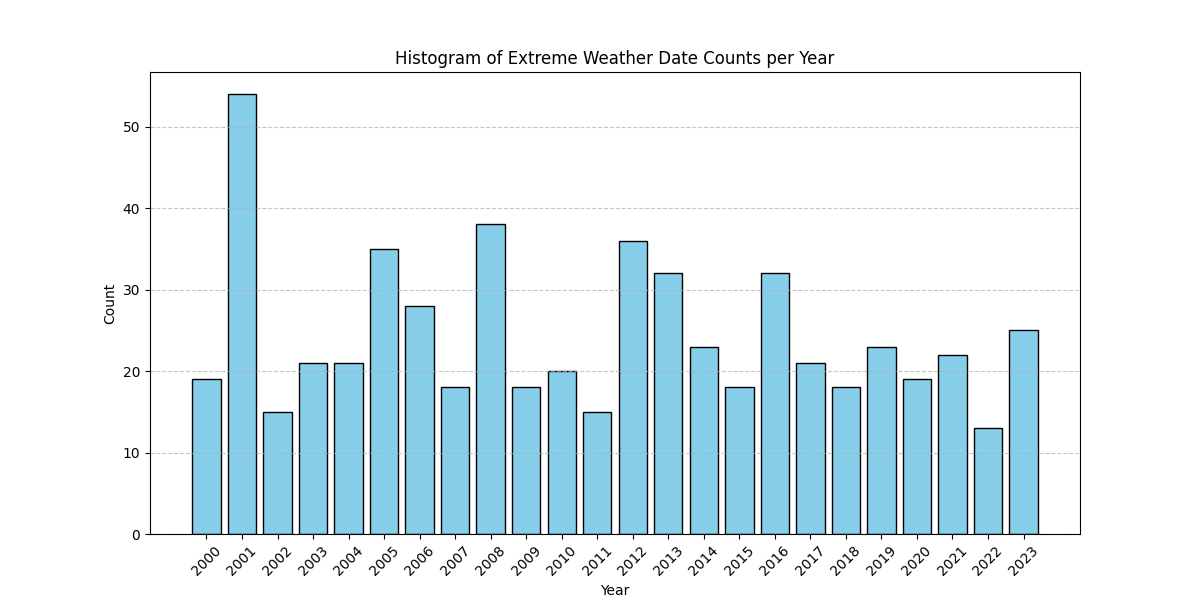
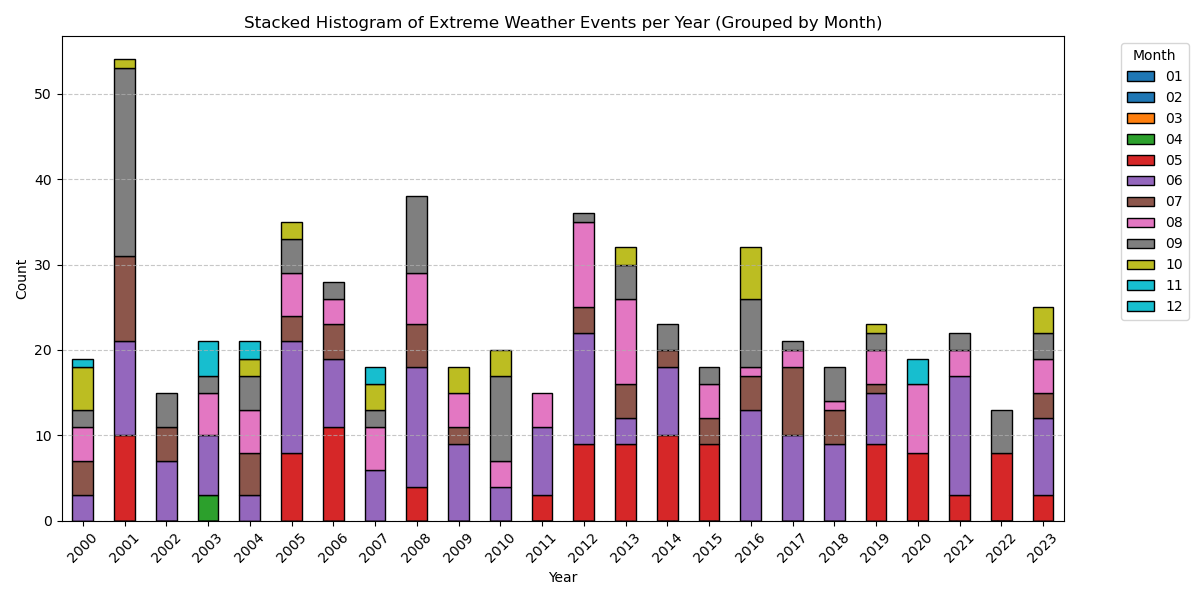
Plot stacked histogram of extreme dates, grouped by month.

diff --git a/helpers/filter_zarr.py b/helpers/filter_zarr.py
@@ -26,13 +26,16 @@ to retain only the specified dates.
    - Defines file paths and calls `filter_zarr_by_dates()` to generate a filtered dataset.
 """
 import re
+from typing import List
 from datetime import datetime, timedelta
 import xarray as xr
 import numpy as np
+import pandas as pd
+import matplotlib.pyplot as plt
 
 from merge_zarr import recompute_fields
 
-def extract_overlapping_dates(file_path):
+def extract_overlapping_dates(file_path: str) -> List[str]:
     """
     Reads a file containing date ranges and extracts unique overlapping dates.
 
@@ -58,7 +61,7 @@ def extract_overlapping_dates(file_path):
 
     return unique_dates
 
-def read_dates_from_file(file_path):
+def read_dates_from_file(file_path: str) -> List[str]:
     """
     Reads a file containing a list of individual dates.
 
@@ -70,6 +73,44 @@ def read_dates_from_file(file_path):
     """
     with open(file_path, "r", encoding="utf-8") as file:
         return {line.strip() for line in file if re.match(r"\d{8}", line.strip())}
+
+def plot_dates(dates: List[str], output_path: str) -> None:
+    """
+    Plots a stacked histogram showing the count of extreme weather events per year,
+    grouped by months.
+
+    Parameters:
+        dates (List[str]): List of date strings in 'YYYYMMDD' format.
+        output_path (str): Path to save the output plot.
+    """
+    # Extract years and months from YYYYMMDD format
+    year_month = [(date[:4], date[4:6]) for date in dates]
+
+    # Convert to DataFrame
+    df = pd.DataFrame(year_month, columns=["Year", "Month"])
+
+    # Convert Year and Month to categorical types for ordered plotting
+    df["Year"] = pd.Categorical(df["Year"], ordered=True)
+    df["Month"] = pd.Categorical(df["Month"], categories=[f"{i:02d}" for i in range(1, 13)], ordered=True)
+
+    # Count occurrences per year-month combination
+    counts = df.groupby(["Year", "Month"]).size().unstack(fill_value=0)
+
+    # Plot stacked bar chart
+    plt.figure(figsize=(12, 6))
+    counts.plot(kind="bar", stacked=True, colormap="tab10", figsize=(12, 6), edgecolor="black")
+
+    plt.xlabel("Year")
+    plt.ylabel("Count")
+    plt.title("Stacked Histogram of Extreme Weather Events per Year (Grouped by Month)")
+    plt.xticks(rotation=45)
+    plt.legend(title="Month", bbox_to_anchor=(1.05, 1), loc="upper left")
+    plt.grid(axis="y", linestyle="--", alpha=0.7)
+
+    # Save the plot
+    plt.tight_layout()
+    plt.savefig(output_path)
+    plt.close()
 
 def filter_zarr_by_dates(file1: str, file2: str, zarr_path: str, output_path: str) -> None:
     """
@@ -88,6 +129,8 @@ def filter_zarr_by_dates(file1: str, file2: str, zarr_path: str, output_path: st
 
     # Merge, sort, and remove duplicates
     extreme_dates = sorted(dates_from_file1.union(dates_from_file2))
+
+    plot_dates(extreme_dates, "../data/extreme_dates/extreme_dates_histogram.png")
 
     # Save to output file
     # with open("../data/extreme_dates/extreme_dates.txt", "w") as file:
